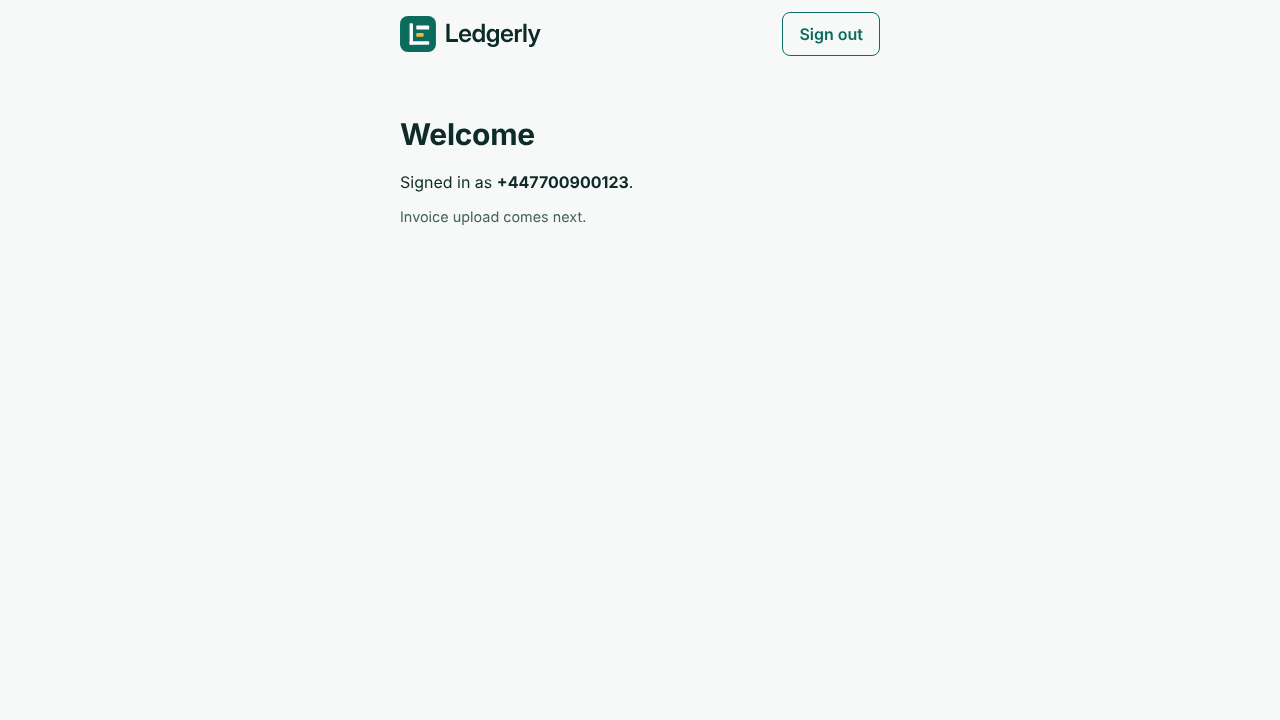
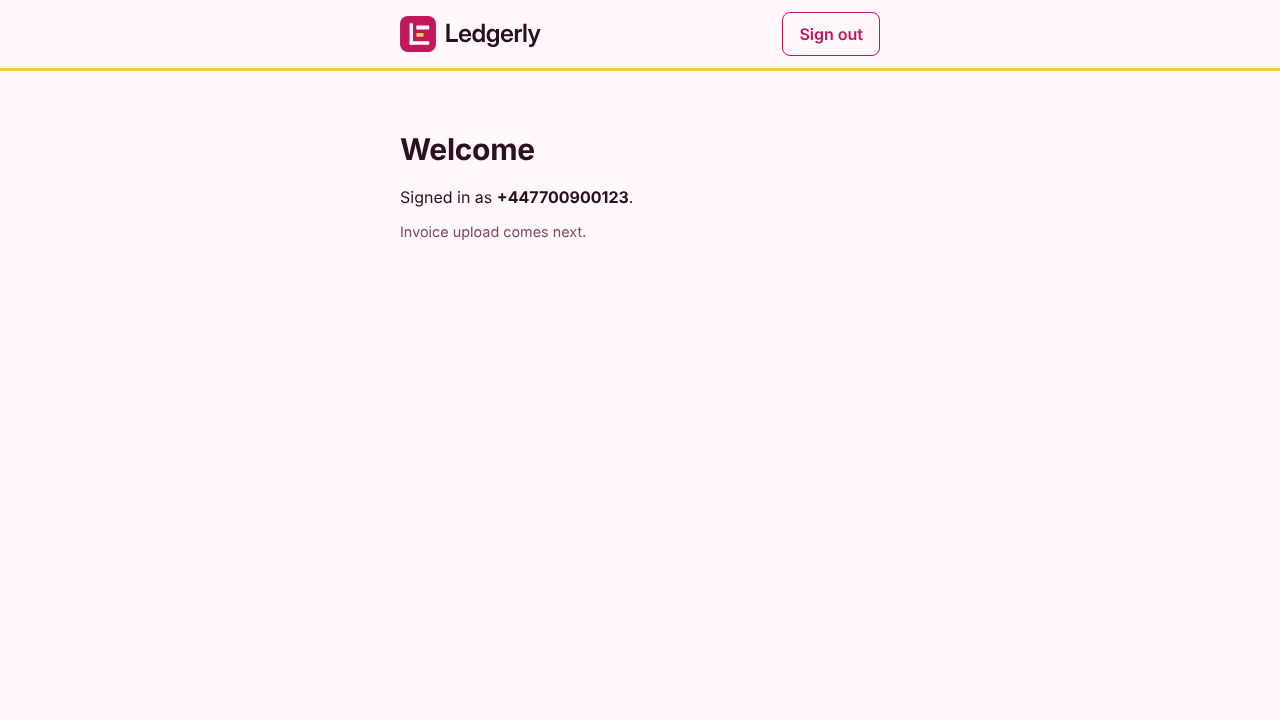
Rebrand Ledgerly to a pink palette with green and yellow accents
New colour tokens (light and dark), recoloured logo, favicon, PWA icons and
Capacitor icon/splash sources, generated by scripts/build-brand.mjs. Green
code-sent notice and yellow header rule. Palette and asset tests added.

Claude-Session: https://claude.ai/code/session_017CjqXZ4m4gC4wJxrAEAVJX

Changed region(s): [[0.0, 0.0, 1.0, 0.1222], [0.3125, 0.1528, 0.5, 0.3361], [0.625, 0.0306, 0.6875, 0.0611]]

diff --git a/client/test/brandAssets.test.js b/client/test/brandAssets.test.js
@@ -55,6 +55,50 @@ describe('brand SVGs', () => {
   });
 });
 
+describe('brand colours', () => {
+  const css = read('src/styles.css');
+  const token = (name, block) => block.match(new RegExp(`--${name}:\\s*(#[0-9a-f]{6})`, 'i'))[1];
+  const [lightBlock] = css.match(/:root\s*\{[\s\S]*?\n\}/);
+  const [darkBlock] = css.match(/@media \(prefers-color-scheme: dark\)\s*\{[\s\S]*?\n\}\n/);
+
+  it('light logos use the primary pink for the tile and yellow for the credit bar', () => {
+    const svg = read('public/brand/logo.svg').toLowerCase();
+    expect(svg).toContain(`rx="14" fill="${token('primary', lightBlock)}"`);
+    expect(svg).toContain('#ffc83d');
+  });
+
+  it('dark logos use a light tile with the light-theme pink bars', () => {
+    const svg = read('public/brand/logo-dark.svg').toLowerCase();
+    expect(svg).toContain(`fill="${token('primary', lightBlock)}"`);
+    expect(svg).toContain(`fill="${token('text', darkBlock)}"`); // wordmark
+  });
+
+  it('no leftover green-theme colours from the previous brand', () => {
+    for (const f of [
+      'src/styles.css',
+      'index.html',
+      'public/manifest.webmanifest',
+      'public/brand/logo.svg',
+      'public/brand/logo-dark.svg',
+      'public/brand/logo-mark.svg',
+      'public/brand/logo-mark-dark.svg',
+      'public/brand/favicon.svg',
+    ]) {
+      expect(read(f).toLowerCase(), f).not.toMatch(/0b6b5d|4fd1b5|0f1b1a|f5b544|f6f9f8/);
+    }
+  });
+
+  it('manifest and theme-color metas match the tokens', () => {
+    const manifest = JSON.parse(read('public/manifest.webmanifest'));
+    expect(manifest.theme_color).toBe(token('primary', lightBlock));
+    expect(manifest.background_color).toBe(token('bg', lightBlock));
+    const html = read('index.html');
+    expect(html).toContain(
+      `content="${token('bg', darkBlock)}" media="(prefers-color-scheme: dark)"`,
+    );
+  });
+});
+
 describe('index.html', () => {
   const html = read('index.html');
 
@@ -75,7 +119,7 @@ describe('web app manifest', () => {
 
   it('names the app and uses the brand colours', () => {
     expect(manifest.name).toBe('Ledgerly');
-    expect(manifest.theme_color).toBe('#0b6b5d');
+    expect(manifest.theme_color).toBe('#c2185b');
     expect(manifest.display).toBe('standalone');
   });
 
@@ -90,6 +134,6 @@ describe('web app manifest', () => {
     const html = read('index.html');
     expect(html).toContain('<link rel="manifest" href="/manifest.webmanifest" />');
     expect(html).toContain('viewport-fit=cover');
-    expect(html).toMatch(/theme-color" content="#0f1b1a" media="\(prefers-color-scheme: dark\)"/);
+    expect(html).toMatch(/theme-color" content="#1c0f16" media="\(prefers-color-scheme: dark\)"/);
   });
 });

diff --git a/client/src/styles.css b/client/src/styles.css
@@ -1,5 +1,6 @@
 /* Ledgerly design tokens. Colours meet WCAG AA: text on --bg is at least
-   4.5:1, and button text on --primary is at least 4.5:1. */
+   4.5:1, and button text on --primary is at least 4.5:1. Change colours here
+   (and in scripts/build-brand.mjs for the logo), not in components. */
 :root {
   --font-sans: Inter, system-ui, -apple-system, 'Segoe UI', Roboto, sans-serif;
   --font-mono: ui-monospace, 'SF Mono', Menlo, Consolas, monospace;
@@ -11,17 +12,19 @@
 
   --radius: 8px;
 
-  --primary: #0b6b5d; /* ledger green */
-  --primary-hover: #095549;
+  /* Palette: pink (brand), green (credit, success), yellow (highlight), white. */
+  --primary: #c2185b; /* ledger pink */
+  --primary-hover: #a8124c;
   --on-primary: #ffffff;
-  --accent: #f5b544; /* credit amber, decoration only */
-  --bg: #f6f9f8;
+  --accent: #ffc83d; /* credit yellow, decoration only */
+  --bg: #fff7fa; /* blush white */
   --surface: #ffffff;
-  --text: #0e2b27;
-  --text-muted: #46605c;
-  --border: #657f7b;
-  --focus: #0b6b5d;
-  --good-bg: #dff3e8;
+  --text: #2b1020;
+  --text-muted: #7a4a60;
+  --border: #9b7587;
+  --focus: #c2185b;
+  --good-bg: #e1f5e8;
+  --good-text: #145c33; /* credit green */
   --bad-bg: #fde4e4;
   --bad-text: #8a1c1c;
 
@@ -33,17 +36,18 @@
 
 @media (prefers-color-scheme: dark) {
   :root {
-    --primary: #4fd1b5;
-    --primary-hover: #7be0ca;
-    --on-primary: #06231f;
-    --accent: #f5b544;
-    --bg: #0f1b1a;
-    --surface: #162726;
-    --text: #e8f3f1;
-    --text-muted: #a8c2be;
-    --border: #5b7773;
-    --focus: #7be0ca;
-    --good-bg: #123d2e;
+    --primary: #ff8fb8;
+    --primary-hover: #ffb3d0;
+    --on-primary: #3a0a1f;
+    --accent: #ffd25e;
+    --bg: #1c0f16;
+    --surface: #2a1822;
+    --text: #fbeaf1;
+    --text-muted: #d4a5ba;
+    --border: #8a6677;
+    --focus: #ff8fb8;
+    --good-bg: #12361f;
+    --good-text: #9be8b4;
     --bad-bg: #4a1f1f;
     --bad-text: #ffc9c9;
   }
@@ -104,6 +108,11 @@ h1 {
 
 .status.good {
   background: var(--good-bg);
+  color: var(--good-text);
+}
+
+.status.good button.link {
+  color: inherit;
 }
 
 .status.bad {
@@ -200,8 +209,13 @@ button.link {
   gap: 1rem;
   max-width: 32rem;
   margin: 0 auto;
-  padding: max(0.75rem, env(safe-area-inset-top)) max(1rem, env(safe-area-inset-right)) 0
+  padding: max(0.75rem, env(safe-area-inset-top)) max(1rem, env(safe-area-inset-right)) 0.75rem
     max(1rem, env(safe-area-inset-left));
+}
+
+/* Thin yellow rule under the header, the one place the accent colour shows. */
+.topbar-wrap {
+  border-bottom: 3px solid var(--accent);
 }
 
 .topbar button {

diff --git a/e2e/branding.spec.js b/e2e/branding.spec.js
@@ -121,6 +121,52 @@ for (const scheme of ['light', 'dark']) {
   });
 }
 
+const PALETTE = {
+  light: { primary: 'rgb(194, 24, 91)', bg: 'rgb(255, 247, 250)', accent: 'rgb(255, 200, 61)' },
+  dark: { primary: 'rgb(255, 143, 184)', bg: 'rgb(28, 15, 22)', accent: 'rgb(255, 210, 94)' },
+};
+for (const scheme of ['light', 'dark']) {
+  test.describe(`${scheme} pink palette`, () => {
+    test.use({ colorScheme: scheme });
+    const want = PALETTE[scheme];
+
+    test('buttons and page use the pink palette', async ({ page }) => {
+      await mockApi(page);
+      await page.goto('/login');
+      await page.getByLabel('Mobile number').fill(PHONE);
+      const button = page.getByRole('button', { name: 'Send code' });
+      expect(await button.evaluate((el) => getComputedStyle(el).backgroundColor)).toBe(
+        want.primary,
+      );
+      expect(await page.evaluate(() => getComputedStyle(document.body).backgroundColor)).toBe(
+        want.bg,
+      );
+    });
+
+    test('"code sent" notice is green and the header has a yellow rule', async ({ page }) => {
+      await mockApi(page);
+      await page.goto('/login');
+      await page.getByLabel('Mobile number').fill(PHONE);
+      await page.getByRole('button', { name: 'Send code' }).click();
+      const notice = page.getByRole('status');
+      await expect(notice).toContainText('We sent a code to');
+      const [r, g, b] = (await notice.evaluate((el) => getComputedStyle(el).backgroundColor))
+        .match(/\d+/g)
+        .map(Number);
+      expect(g).toBeGreaterThan(r); // green-tinted
+      expect(g).toBeGreaterThan(b);
+
+      await page.getByLabel('6-digit code').fill('123456');
+      await page.getByRole('button', { name: 'Sign in' }).click();
+      const header = page.getByRole('banner');
+      await expect(header).toBeVisible();
+      expect(await header.evaluate((el) => getComputedStyle(el).borderBottomColor)).toBe(
+        want.accent,
+      );
+    });
+  });
+}
+
 test('manifest is served', async ({ request }) => {
   const res = await request.get('/manifest.webmanifest');
   expect(res.status()).toBe(200);
@@ -154,7 +200,7 @@ test('page declares the favicon and theme colour', async ({ page }) => {
   );
   await expect(page.locator('meta[name="theme-color"]').first()).toHaveAttribute(
     'content',
-    '#0b6b5d',
+    '#c2185b',
   );
   await expect(page.locator('link[rel="manifest"]')).toHaveAttribute(
     'href',

diff --git a/client/test/contrast.test.js b/client/test/contrast.test.js
@@ -35,14 +35,40 @@ describe.each([
     ['text', 'surface', 4.5],
     ['text-muted', 'bg', 4.5],
     ['text-muted', 'surface', 4.5],
-    ['on-primary', 'primary', 4.5],
     ['on-primary', 'primary-hover', 4.5],
     ['primary', 'bg', 4.5],
+    ['good-text', 'good-bg', 4.5],
     ['bad-text', 'bad-bg', 4.5],
+    ['on-primary', 'primary', 4.5],
     ['border', 'surface', 3], // input outline, WCAG 1.4.11
     ['focus', 'bg', 3],
   ])('%s on %s is at least %s:1', (fg, bg, min) => {
     expect(t[fg], `missing token ${fg}`).toBeDefined();
     expect(ratio(t[fg], t[bg])).toBeGreaterThanOrEqual(min);
+  });
+});
+
+function hue(hex) {
+  const [r, g, b] = [1, 3, 5].map((i) => parseInt(hex.slice(i, i + 2), 16) / 255);
+  const max = Math.max(r, g, b);
+  const d = max - Math.min(r, g, b);
+  if (d === 0) return 0;
+  const h = max === r ? ((g - b) / d) % 6 : max === g ? (b - r) / d + 2 : (r - g) / d + 4;
+  return (h * 60 + 360) % 360;
+}
+
+// The brand direction: pink UI, green for credit/success, yellow highlight.
+describe.each([
+  ['light', light],
+  ['dark', dark],
+])('%s theme palette', (_name, t) => {
+  it('is pink, green and yellow', () => {
+    expect(hue(t.primary)).toBeGreaterThanOrEqual(325);
+    expect(hue(t.primary)).toBeLessThanOrEqual(350);
+    expect(hue(t['good-text'])).toBeGreaterThanOrEqual(120);
+    expect(hue(t['good-text'])).toBeLessThanOrEqual(160);
+    expect(hue(t.accent)).toBeGreaterThanOrEqual(38);
+    expect(hue(t.accent)).toBeLessThanOrEqual(52);
+    expect(hue(t.bg)).toBeGreaterThanOrEqual(325); // pink-tinted background
   });
 });

diff --git a/client/index.html b/client/index.html
@@ -8,8 +8,8 @@
       name="description"
       content="Ledgerly reads an invoice and shows the net debit or credit."
     />
-    <meta name="theme-color" content="#0b6b5d" media="(prefers-color-scheme: light)" />
-    <meta name="theme-color" content="#0f1b1a" media="(prefers-color-scheme: dark)" />
+    <meta name="theme-color" content="#c2185b" media="(prefers-color-scheme: light)" />
+    <meta name="theme-color" content="#1c0f16" media="(prefers-color-scheme: dark)" />
     <link rel="manifest" href="/manifest.webmanifest" />
     <link rel="icon" type="image/svg+xml" href="/brand/favicon.svg" />
     <link rel="icon" type="image/png" sizes="32x32" href="/brand/favicon-32.png" />

diff --git a/client/src/components/AppHeader.jsx b/client/src/components/AppHeader.jsx
@@ -4,11 +4,13 @@ import Logo from './Logo.jsx';
 // Top bar for signed-in pages: logo on the left, page actions on the right.
 export default function AppHeader({ children }) {
   return (
-    <header className="topbar">
-      <Link to="/" className="brand-link" aria-label="Ledgerly home">
-        <Logo height={36} />
-      </Link>
-      <div className="topbar-actions">{children}</div>
+    <header className="topbar-wrap">
+      <div className="topbar">
+        <Link to="/" className="brand-link" aria-label="Ledgerly home">
+          <Logo height={36} />
+        </Link>
+        <div className="topbar-actions">{children}</div>
+      </div>
     </header>
   );
 }

diff --git a/eslint.config.js b/eslint.config.js
@@ -8,7 +8,7 @@ export default [
   { ignores: ['**/dist/**', '**/node_modules/**'] },
   js.configs.recommended,
   {
-    files: ['server/**/*.js', '*.js'],
+    files: ['server/**/*.js', 'scripts/**/*.{js,mjs}', '*.js'],
     languageOptions: { ecmaVersion: 2023, sourceType: 'module', globals: globals.node },
   },
   {

diff --git a/client/src/pages/LoginPage.jsx b/client/src/pages/LoginPage.jsx
@@ -91,7 +91,7 @@ export default function LoginPage() {
         </form>
       ) : (
         <form onSubmit={submitCode}>
-          <p>
+          <p className="status good" role="status">
             We sent a code to <strong>{phone}</strong>.{' '}
             <button
               type="button"

diff --git a/README.md b/README.md
@@ -55,21 +55,24 @@ Enter it to sign in. `GET /api/health` shows the active providers.
 ### See the branding
 
 - **Sign-in screen** (http://localhost:5173/login, sign out first if needed) shows the logo, the tagline and the browser tab title and icon. The home page after sign-in shows the logo in the header.
-- **Dark mode:** switch your computer to dark mode (or in Chrome press F12, open the three-dot menu, **More tools**, **Rendering**, and set _Emulate CSS prefers-color-scheme_ to dark). The logo and colours switch by themselves.
+- **Dark mode:** switch your computer to dark mode (or in Chrome press F12, open the three-dot menu, **More tools**, **Rendering**, and set _Emulate CSS prefers-color-scheme_ to dark). The logo and colours switch by themselves (pink on blush white by day, soft pink on deep plum at night).
 - **Phone size:** in Chrome press F12, then Ctrl+Shift+M (Cmd+Shift+M on Mac), and pick a phone such as iPhone SE or iPhone 14.
+- **Green and yellow:** after you click **Send code**, the "We sent a code" notice is green. Once signed in, a thin yellow line runs under the header.
 - Logo files are in `client/public/brand/`; a preview sheet is in [docs/brand/logo-preview.png](docs/brand/logo-preview.png).
+- **Changing the colours:** edit the tokens at the top of `client/src/styles.css` and the palette at the top of `scripts/build-brand.mjs`, then run `npm run brand` to rebuild the logos, icons and splash images.
 
 ## Scripts
 
-| Command            | What it does                                           |
-| ------------------ | ------------------------------------------------------ |
-| `npm run dev`      | Start API and web app together with reload             |
-| `npm run build`    | Production build of the web app (`client/dist`)        |
-| `npm start`        | Start the API only                                     |
-| `npm test`         | Server tests (Node) and React component tests (Vitest) |
-| `npm run test:e2e` | Browser UI and accessibility tests (Playwright)        |
-| `npm run lint`     | ESLint across the repo                                 |
-| `npm run format`   | Format with Prettier (`format:check` to verify)        |
+| Command            | What it does                                            |
+| ------------------ | ------------------------------------------------------- |
+| `npm run dev`      | Start API and web app together with reload              |
+| `npm run build`    | Production build of the web app (`client/dist`)         |
+| `npm start`        | Start the API only                                      |
+| `npm test`         | Server tests (Node) and React component tests (Vitest)  |
+| `npm run test:e2e` | Browser UI and accessibility tests (Playwright)         |
+| `npm run brand`    | Rebuild logos, icons and splash images from the palette |
+| `npm run lint`     | ESLint across the repo                                  |
+| `npm run format`   | Format with Prettier (`format:check` to verify)         |
 
 UI tests need a browser once: `npx playwright install chromium`. They start the web app themselves and mock the API, so nothing else has to be running. Screenshots of the branded screens are attached to each run; set `SCREENSHOT_DIR=docs/screenshots` to save them as files.
 

diff --git a/SPEC.md b/SPEC.md
@@ -106,10 +106,10 @@ React web app (Vite)  --JSON-->  Node API (Express)  --code-->   SMS provider (c
 
 ## Branding
 
-The product is called **Ledgerly**. The logo is a ledger mark (a vertical rule, a longer debit bar, a shorter amber credit bar and a total line, which also reads as an L) next to the wordmark in Inter SemiBold, outlined so the SVGs need no fonts.
+The product is called **Ledgerly**. The logo is a ledger mark (a vertical rule, a longer debit bar, a shorter yellow credit bar and a total line, which also reads as an L) next to the wordmark in Inter SemiBold, outlined so the SVGs need no fonts.
 
 - **Files:** `client/public/brand/` holds the lockup and the mark, each in light and dark, plus the favicon, `apple-touch-icon.png` and the PWA icons. `client/assets/` holds the Capacitor sources: `icon-only`, `icon-foreground` and `icon-background` (1024 px) and `splash` and `splash-dark` (2732 px). A preview is in `docs/brand/logo-preview.png`.
-- **Colour:** ledger green `#0b6b5d` (primary), credit amber `#f5b544` (decoration only), ink `#0e2b27` on `#f6f9f8`. Dark theme uses mint `#4fd1b5` on `#0f1b1a`. The dark theme follows the device setting.
+- **Colour:** a pink UI with green and yellow accents on white. Light theme: ledger pink `#c2185b` (primary, white text on it), blush white `#fff7fa` background, plum ink `#2b1020` text, credit green `#145c33` on `#e1f5e8` (success and credit), credit yellow `#ffc83d` (decoration only, such as the header rule and the credit bar in the logo). Dark theme: soft pink `#ff8fb8` on deep plum `#1c0f16`, with surfaces `#2a1822` and text `#fbeaf1`. The dark theme follows the device setting. Logo, icons and splash are generated from the palette by `npm run brand`.
 - **Type:** Inter if installed, else the system font; no web font is downloaded.
 - **Accessibility:** text and controls meet WCAG AA (4.5:1 text, 3:1 control outlines), buttons are at least 44 px tall, the logo has the alt text "Ledgerly", and focus rings are always visible. Contrast ratios of the colour tokens are checked by tests.
 - **Where it shows:** browser tab title and icon, sign-in screen, the header of every signed-in page, and the SMS text ("Your Ledgerly code is ...").
@@ -191,3 +191,4 @@ The build can start without these answers; each has a default assumed in bracket
 | 2026-11-16 | 0.1 | First draft of the prototype spec. |
 | 2026-11-16 | 0.2 | SMS login built (AUTH-1 to AUTH-5). Added `GET /api/auth/me`, the `AUTH_SECRET` setting and the specific rate limits; clarified 429 and lockout behaviour. |
 | 2026-11-16 | 0.3 | Product named Ledgerly. Added the Branding section (logo, palette, icons), the web-and-mobile decision (responsive web app, Capacitor wrapper later) and the testing approach. |
+| 2026-11-16 | 0.4 | Rebranded to a pink palette (pink, green, yellow, white) with a matching dark theme, requested by the manager. New logo colours, icons, splash and favicon; no layout or behaviour changes. |
